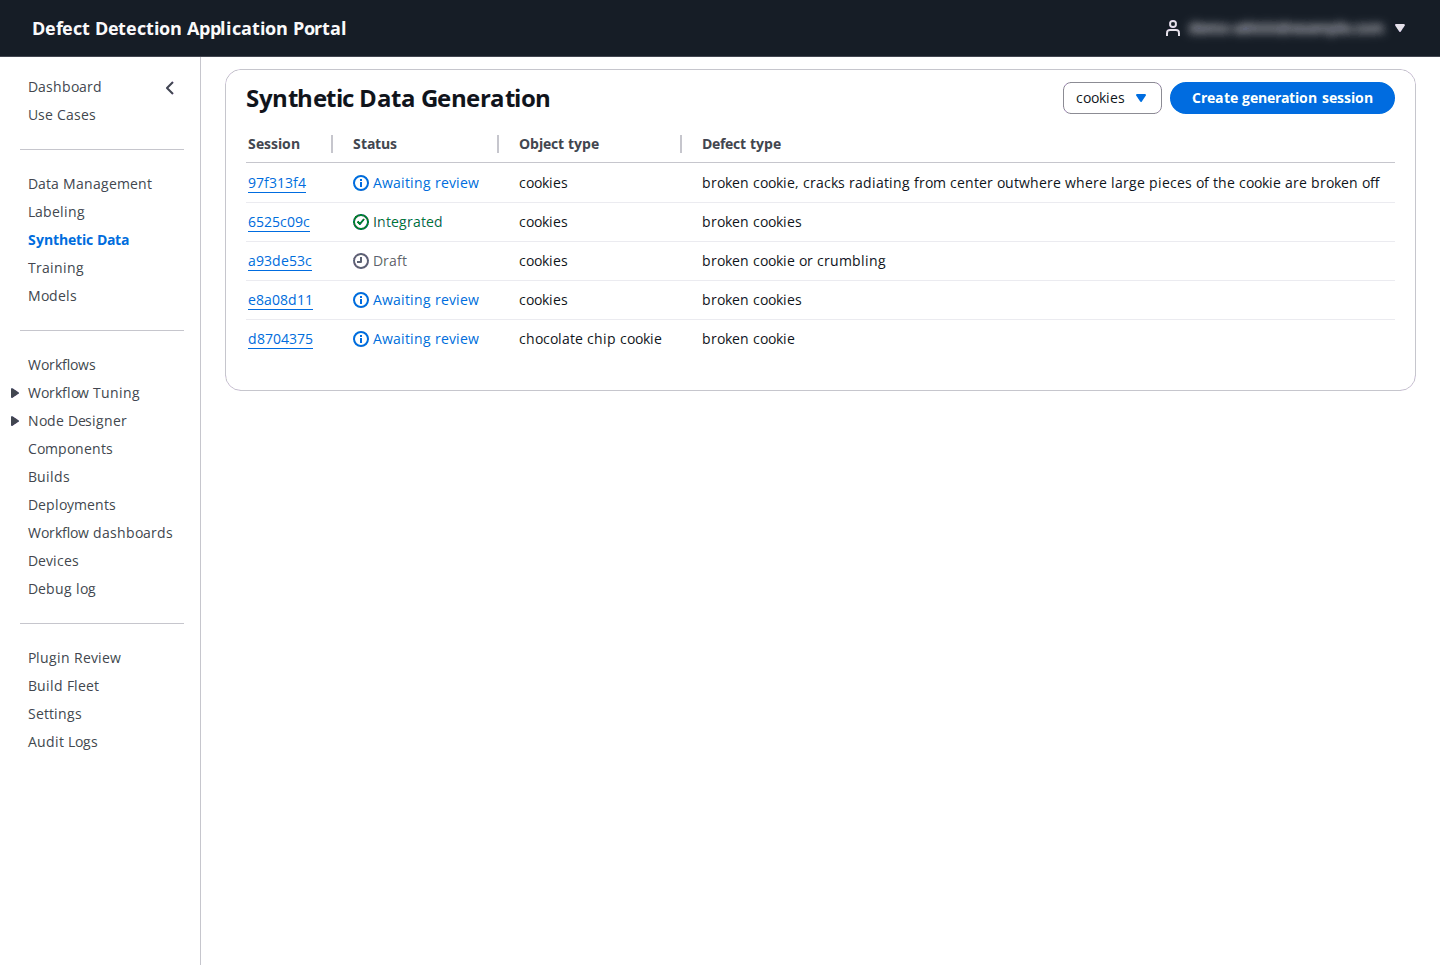
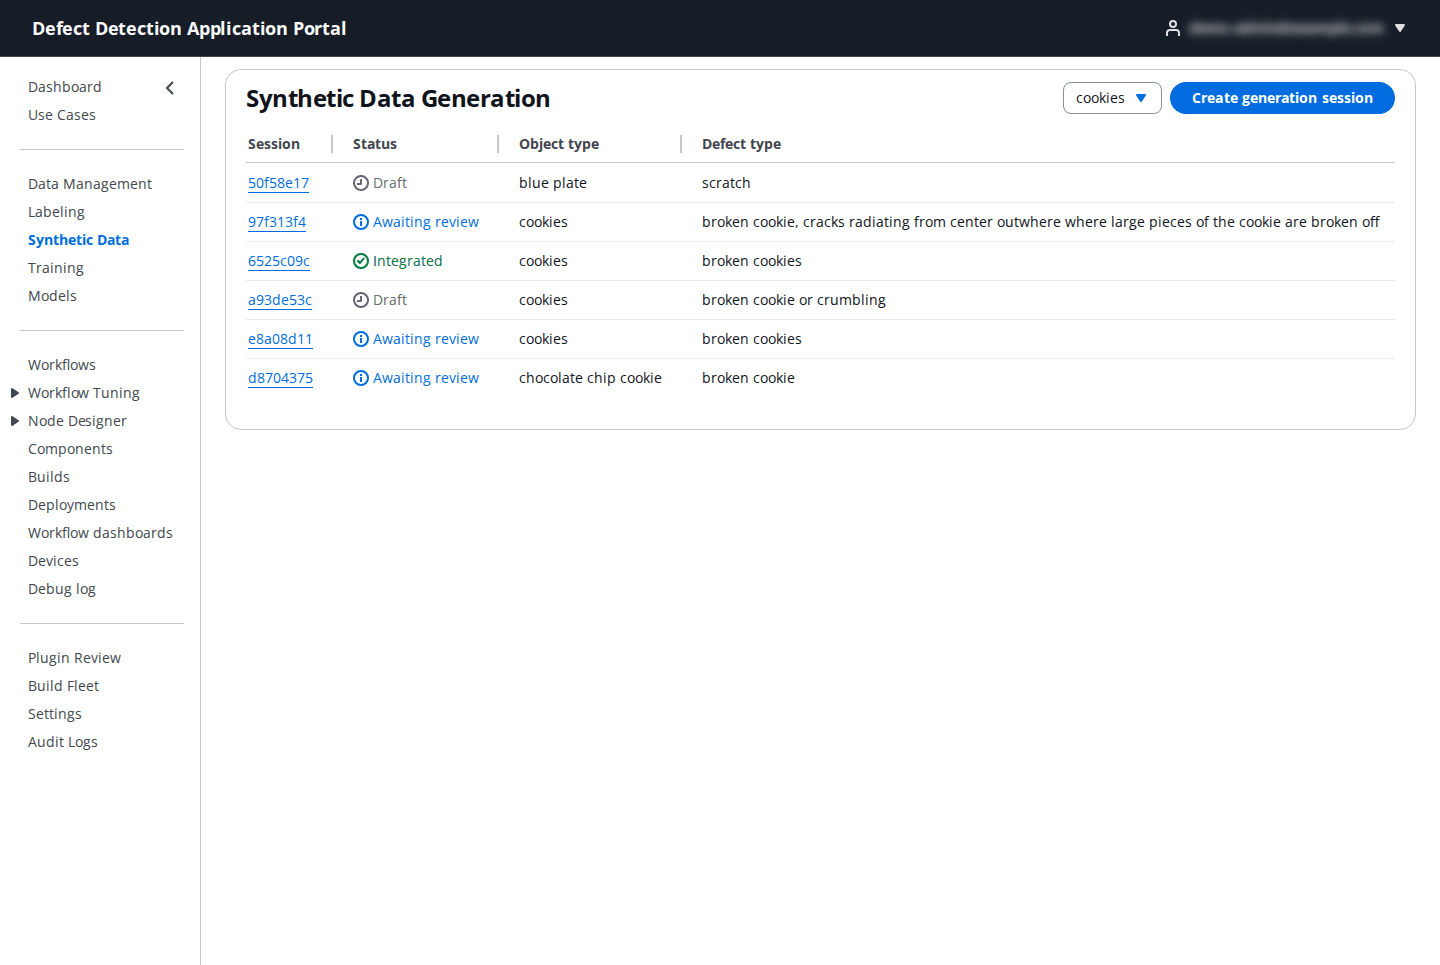
docs(user-guide): refresh the Synthetic Data section after the generation fix
Re-captures the three Synthetic Data screenshots on the patched Portal:
the session list, the new-session form with a model, dataset and source
images selected, and a session whose 40 cookie previews all generated.
Drops the note about the old PIL import failures and documents the form
and the review flow around the new captures.

diff --git a/docs/user-guide/05-synthetic-data.md b/docs/user-guide/05-synthetic-data.md
@@ -2,7 +2,7 @@
 
 **Who:** DataScientist, UseCaseAdmin and PortalAdmin. **Video:** [Module 5: Synthetic Data](https://youtu.be/n-egAmfZiJw).
 
-Defects are rare on a healthy production line, so a classifier often has hundreds of normal images and a handful of defective ones. **Synthetic Data** uses an image-generation model in Amazon Bedrock to paint a described defect onto your real normal images (or to vary your real defect images), lets you approve or reject each result, and appends the approved images to a training manifest so the next training run sees a balanced set.
+Defects are rare on a healthy production line, so a classifier often has hundreds of normal images and a handful of defective ones. **Synthetic Data** uses an image-generation model in Amazon Bedrock to paint a described defect onto your real normal images (or to vary your real defect images), lets you approve or reject each result, and appends the approved images to a training manifest so the next training run sees a balanced set. The example below generates broken cookies from the cookies use case's normal training images.
 
 ## 5.1 Sessions
 
@@ -12,53 +12,54 @@ The page lists the use case's generation sessions with **Session** (short id, cl
 
 ## 5.2 Create a generation session
 
-![New session form](images/05-synthetic-new-session.png)
+![New session form, filled in](images/05-synthetic-new-session.png)
 
-The form is one page in four panels. The yellow box at the top lists what is still missing; **Create session** enables when it is empty.
+The form is one page in four panels. A yellow box at the top lists what is still missing (a model, an object type, at least one source image, a classification); **Create session** enables when it is empty.
 
 **Generation model**
 
 | Field | What to enter |
 |-------|---------------|
-| **Generation model** | A Bedrock image model available in the Portal's region, listed with its capability flags (inpainting is what defect synthesis needs). The sessions shown used `stability.stable-image-inpaint-v1:0`. If the list is empty, the account has no image-generation model access in this region ("No generation models available"): request model access in the Bedrock console first. |
+| **Generation model** | A Bedrock image model available in the Portal's region, shown with its capability flags; the sessions here use **Stability Stable Image Inpaint** (`inpainting`, `seed`), since painting a defect into a region of a real image is an inpainting task. If the list is empty ("No generation models available"), the account has no image-generation model access in this region: request model access in the Bedrock console first. |
 
 **Prompt template**
 
 | Field | What to enter |
 |-------|---------------|
 | **Object type** | The inspected part or product, in plain words: `cookie`, `blue plate`, `metal casting`. |
-| **Defect type** | The defect to synthesize: `scratch`, `broken cookie`, `chip`. Required when the source images are normal (there is nothing else to tell the model what to add). |
-| **Prompt template** | Entering an object and defect type loads a default template with `{object_type}` and `{defect_type}` placeholders. Edit it to describe lighting, realism and what must stay unchanged, for example "Photorealistic industrial inspection image of a {object_type} exhibiting a {defect_type}… Preserve the original background, camera angle and part appearance." **Save template** keeps your wording for later sessions. |
+| **Defect type** | The defect to synthesize: `broken cookie`, `scratch`, `chip`. Required when the source images are normal (there is nothing else to tell the model what to add). |
+| **Prompt template** | Entering an object and defect type loads the default template, with `{object_type}` and `{defect_type}` placeholders: "Photorealistic industrial inspection image of a {object_type} exhibiting a {defect_type}. The {defect_type} must look physically plausible with realistic texture, lighting and scale. Preserve the original background, camera angle and part appearance." Edit it to describe your defect more precisely, for example "cracks radiating from the center where large pieces of the cookie are broken off". **Save template** keeps your wording as the stored template for this object/defect pair. |
 
 **Source images**
 
 | Field | What to enter |
 |-------|---------------|
-| **Dataset** | A dataset prefix discovered in the use case's data bucket, such as the folder of normal training images. |
-| **Source classification** | **Defect images** when the chosen images already contain defects (the model produces more variants of them; the defect type may then be left out) or **Normal images** when they are defect-free and a defect must be synthesized (defect type required). |
+| **Dataset** | A dataset prefix discovered in the use case's data bucket, listed with its image count (`training-images/`, 63 images). The list can take a few seconds to load on a large bucket. |
+| Image grid | Thumbnails of the dataset appear, 12 per page (**Previous** / **Next**). Click images to select them as source images; the caption counts the selection. Pick a representative handful of clean examples: each one produces several variations. |
+| **Source classification** | **Normal images** when the selected images are defect-free and the defect must be synthesized (defect type required), or **Defect images** when they already contain defects and the model should produce more variants of them (the defect type may then be left out). |
 
 **Generation controls**
 
 | Field | What to enter |
 |-------|---------------|
-| **Variations per source image** | 1–20 generated images per source image; default `5`. |
+| **Variations per source image** | 1–20 generated images per source image; default `5`. Three source images at 5 variations give 15 previews to review. |
 | **Seed** | A randomization seed, or blank for random. Reuse a seed to reproduce a run. |
-| **Guidance strength (cfgScale)** | How strongly the prompt steers the model, when the model supports it. |
-| **Target manifest key** | The training manifest the approved images will be appended to at integration, for example `datasets/blue-plates/manifests/train.manifest`. |
+| **Guidance strength (cfgScale)** | How strongly the prompt steers the model, when the model exposes it. |
+| **Target manifest key** | The training manifest the approved images will be appended to at integration, for example `training-images/manifests/train.manifest` (an S3 key inside the use case bucket). |
 
-Click **Create session**. Generation runs in the background; the session shows **Generating** and then **Awaiting review** as previews arrive.
+Click **Create session**. Generation runs in the background; the session shows **Generating** and then **Awaiting review** as the previews arrive.
 
 ## 5.3 Review, integrate and retrain
 
 Open a session from the list.
 
-![Session detail with previews](images/05-synthetic-session-detail.png)
+![Session detail with 40 previews](images/05-synthetic-session-detail.png)
 
 - The header repeats the **Model**, **Object**, **Defect** and **Status**.
-- **Prompt** shows the template used. Edit it and click **Regenerate** to run another pass and compare; each preview is tagged with the pass it came from (**Pass 2**, **Pass 3**, …).
-- **Previews** shows every generated image. Click **Approve** or **Reject** under each one, or use **Approve all** / **Reject all**. Only approved images are kept.
-- Failed variations are listed under the previews with the error text. In the screenshot a missing Python module on the generation side failed 20 variations; such errors come from the generation backend, not from your inputs.
-- **Integrate approved images** copies the approved images into the dataset and appends their manifest lines (labeled with the defect class) to the **Target manifest key**. The banner **Integration complete** reports how many records were appended and to which manifest. Rejected and pending previews are excluded.
+- **Prompt** shows the template used. Edit it and click **Regenerate** to run another pass over the same source images and compare; each preview is tagged with the pass it came from (**Pass 1**, **Pass 2**, …), so you can keep the better pass and reject the other.
+- **Previews** shows every generated image. Click **Approve** or **Reject** under each one, or use **Approve all** / **Reject all**. Judge them as an inspector would: a plausible break with the right lighting and background is approved; a distorted cookie, a changed background or an unconvincing defect is rejected. Only approved images are kept.
+- If any variations fail to generate, a box below the previews lists each one with the model's or the service's error text so you can retry or adjust the prompt; failures never block reviewing the previews that did succeed.
+- **Integrate approved images** copies the approved images into the dataset (under `training-images/synthetic/<session>/`) and appends their manifest lines, labeled with the defect class, to the **Target manifest key**. The green **Integration complete** banner reports how many records were appended and to which manifest. Rejected and pending previews are excluded.
 - **Start retraining** opens a dialog pre-filled with the updated **Dataset manifest** and asks for a **Model name**; it starts a training job on the enlarged dataset (see [6. Training](06-training.md)). The training job records this session as its origin.
 
-Generated images are staged under `synthetic-staging/` in the use case bucket until they are integrated.
+Generated images are staged under `synthetic-staging/<session>/` in the use case bucket until they are integrated.
